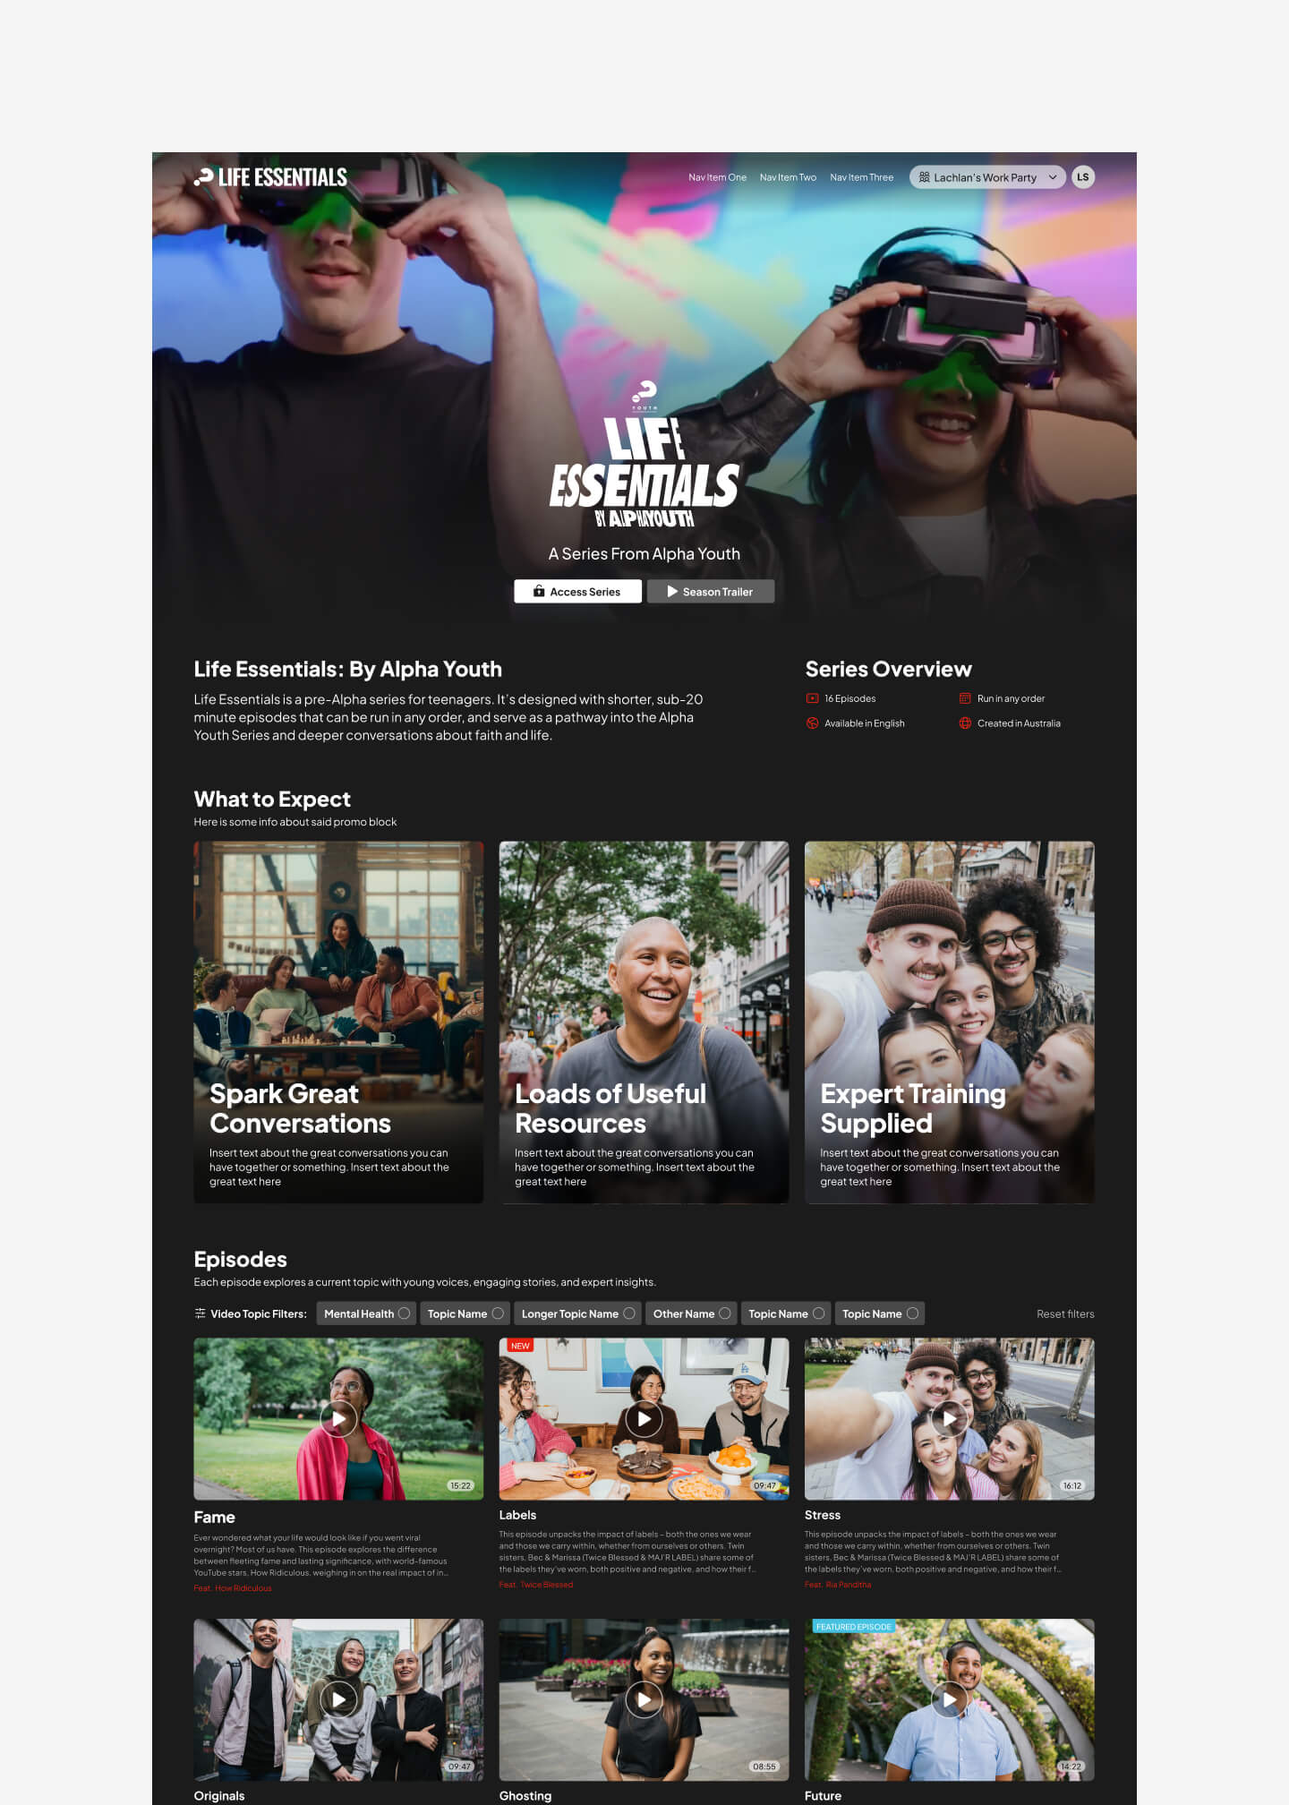
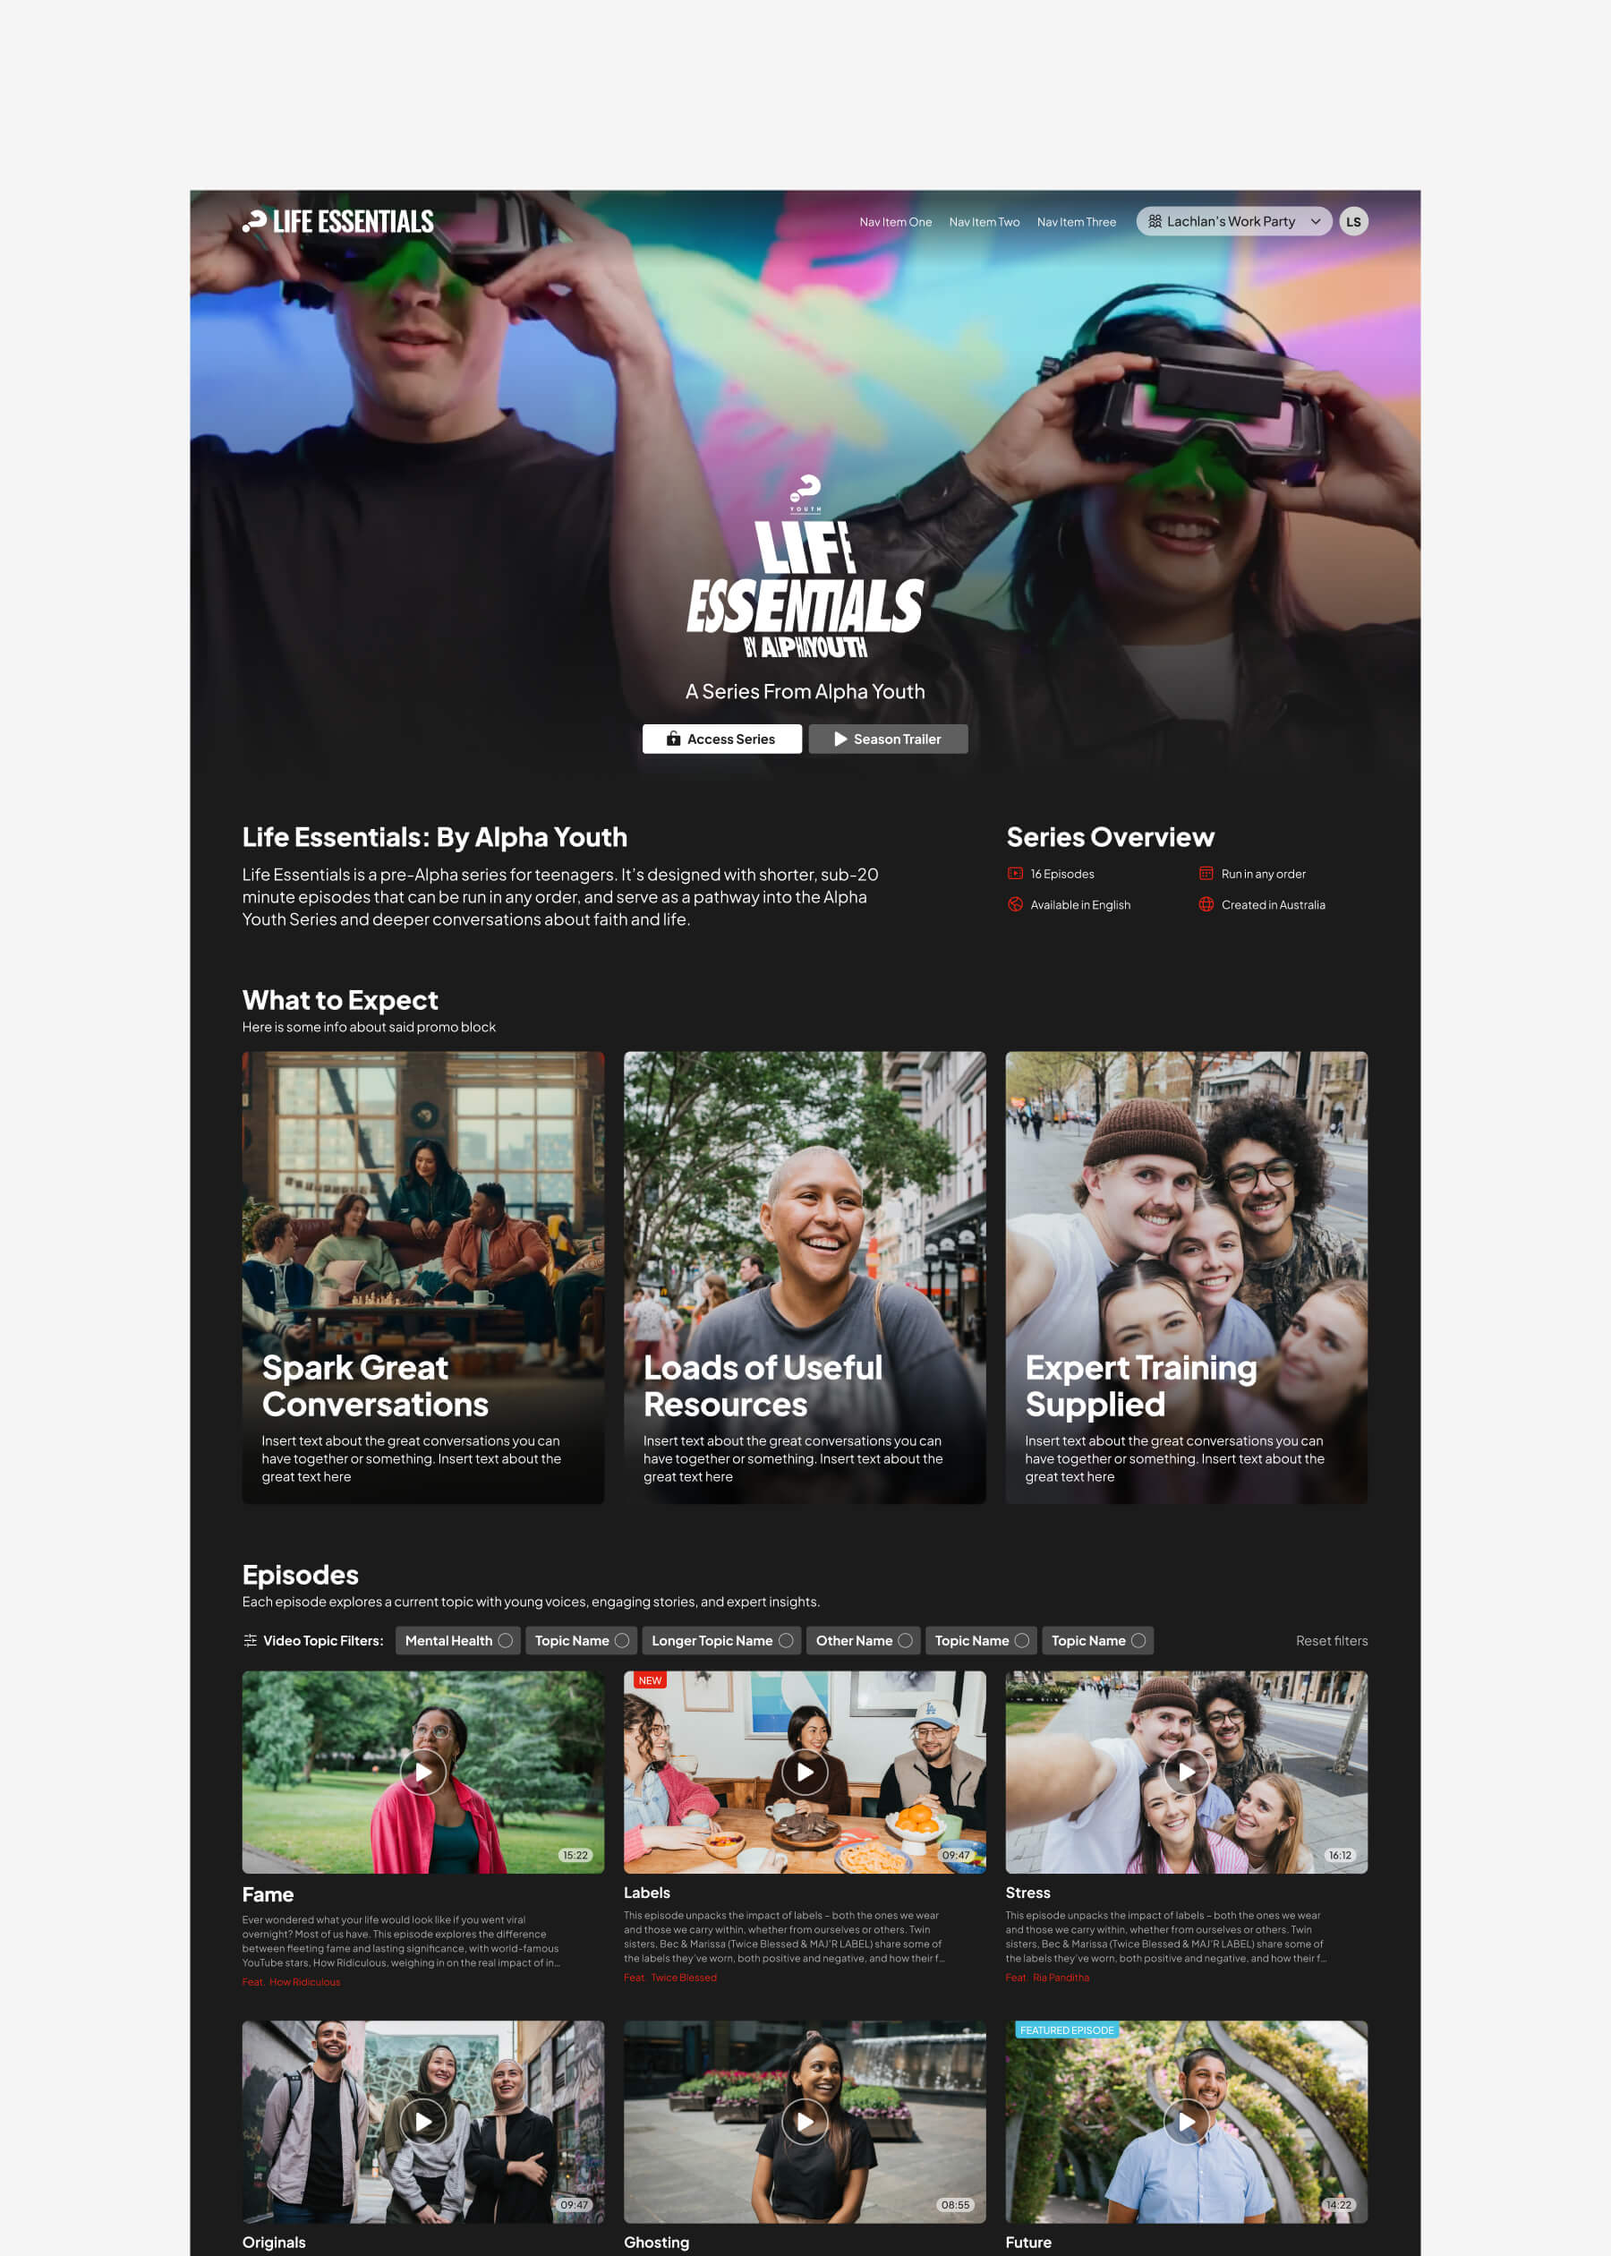
Alpha Life Essentials: higher-res images

diff --git a/projects.js b/projects.js
@@ -277,20 +277,20 @@ window.KODU_PROJECTS = {
         "src": "images/alpha-life-essentials/02-website-layout",
         "widths": [
           1200,
-          1440
+          1800
         ],
         "cols": 2,
-        "aspect": "1440 / 2016",
+        "aspect": "1800 / 2520",
         "alt": "Alpha Life Essentials: Website Layout"
       },
       {
         "src": "images/alpha-life-essentials/03-website-layout",
         "widths": [
           1200,
-          1440
+          1800
         ],
         "cols": 2,
-        "aspect": "1440 / 2016",
+        "aspect": "1800 / 2520",
         "alt": "Alpha Life Essentials: Website Layout"
       }
     ]
